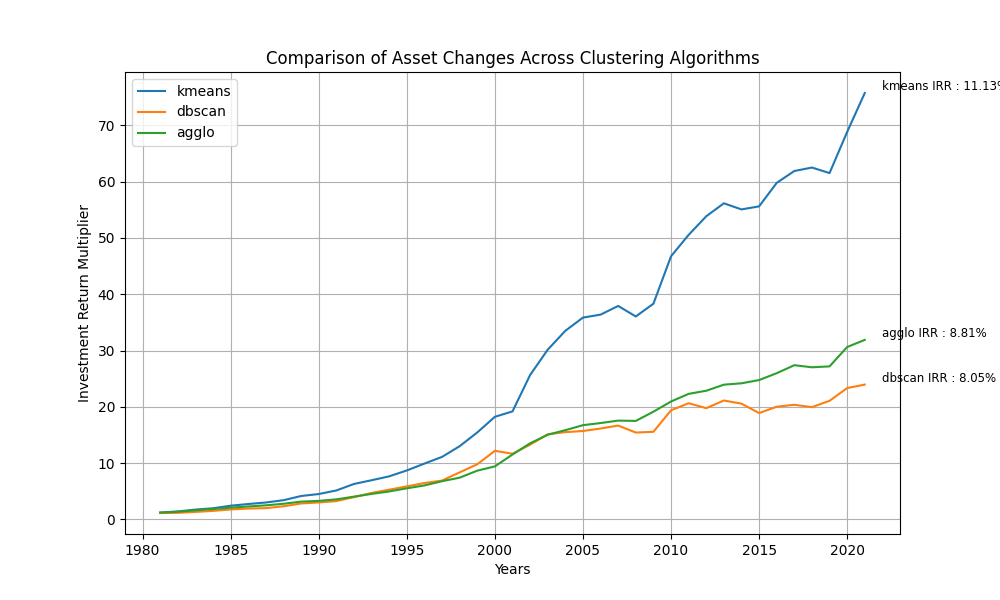
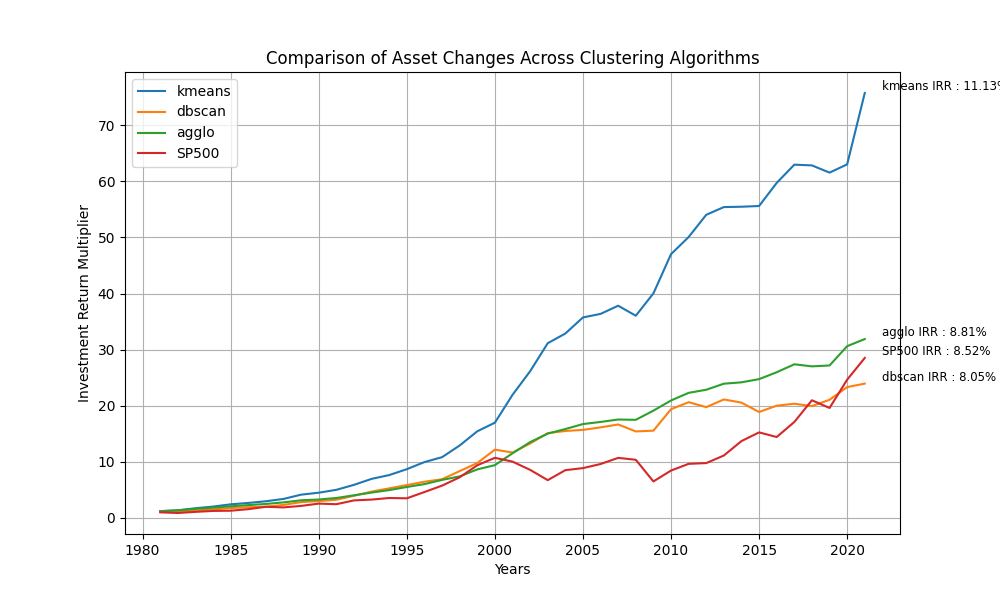
feat: Add comparison of clustering results with S&P 500 performance

diff --git a/src/utilities/utils.py b/src/utilities/utils.py
@@ -97,6 +97,17 @@ def plot_compare_results():
     # Create a dictionary to store total returns for each clustering algorithm
     all_returns = {}
 
+    # sp500 price list
+    sp500_prices = [
+        133.00, 117.30, 144.30, 166.40, 171.60, 208.20, 264.50, 250.50, 285.40, 339.97,
+        325.49, 416.08, 435.23, 472.99, 465.25, 614.42, 766.22, 963.36, 1248.77, 1425.59,
+        1335.63, 1140.21, 895.84, 1132.52, 1181.41, 1278.73, 1424.16, 1378.76, 865.58,
+        1123.58, 1282.62, 1300.58, 1480.40, 1822.36, 2028.18, 1918.60, 2275.12, 2789.80,
+        2607.39, 3278.20, 3793.75
+    ]
+    # Adjust SP500 prices relative to the initial price
+    sp500_returns = [price / sp500_prices[0] for price in sp500_prices]
+
     # Iterate over each clustering algorithm
     for algo, paths in config.PATHS.items():
         returns_list_path = paths['returns_list']
@@ -105,7 +116,7 @@ def plot_compare_results():
             total_returns = pd.read_pickle(returns_list_path)
             # Store total returns in the dictionary
             all_returns[algo] = total_returns
-
+    all_returns['SP500'] = sp500_returns
     # Plotting
     plt.figure(figsize=(10, 6))
     for algo, returns in all_returns.items():
